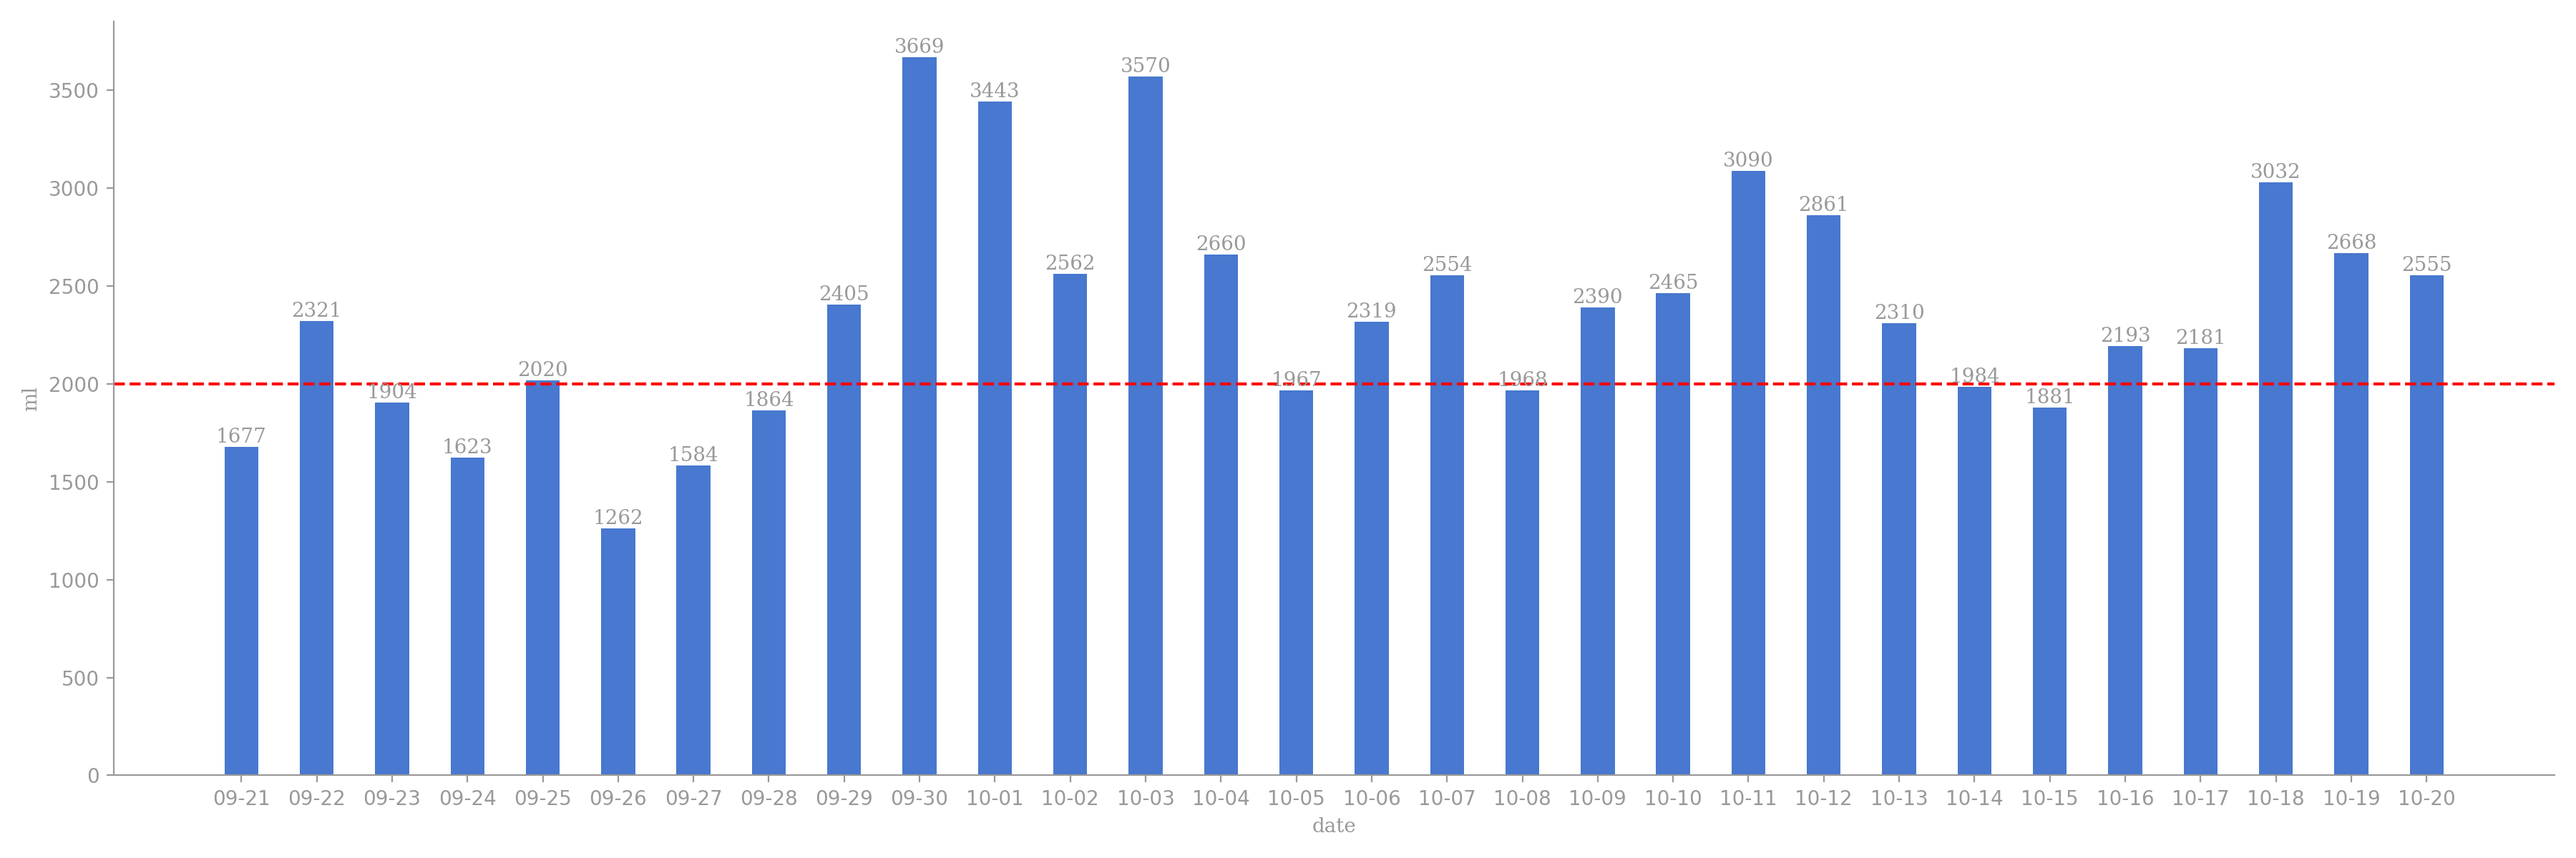
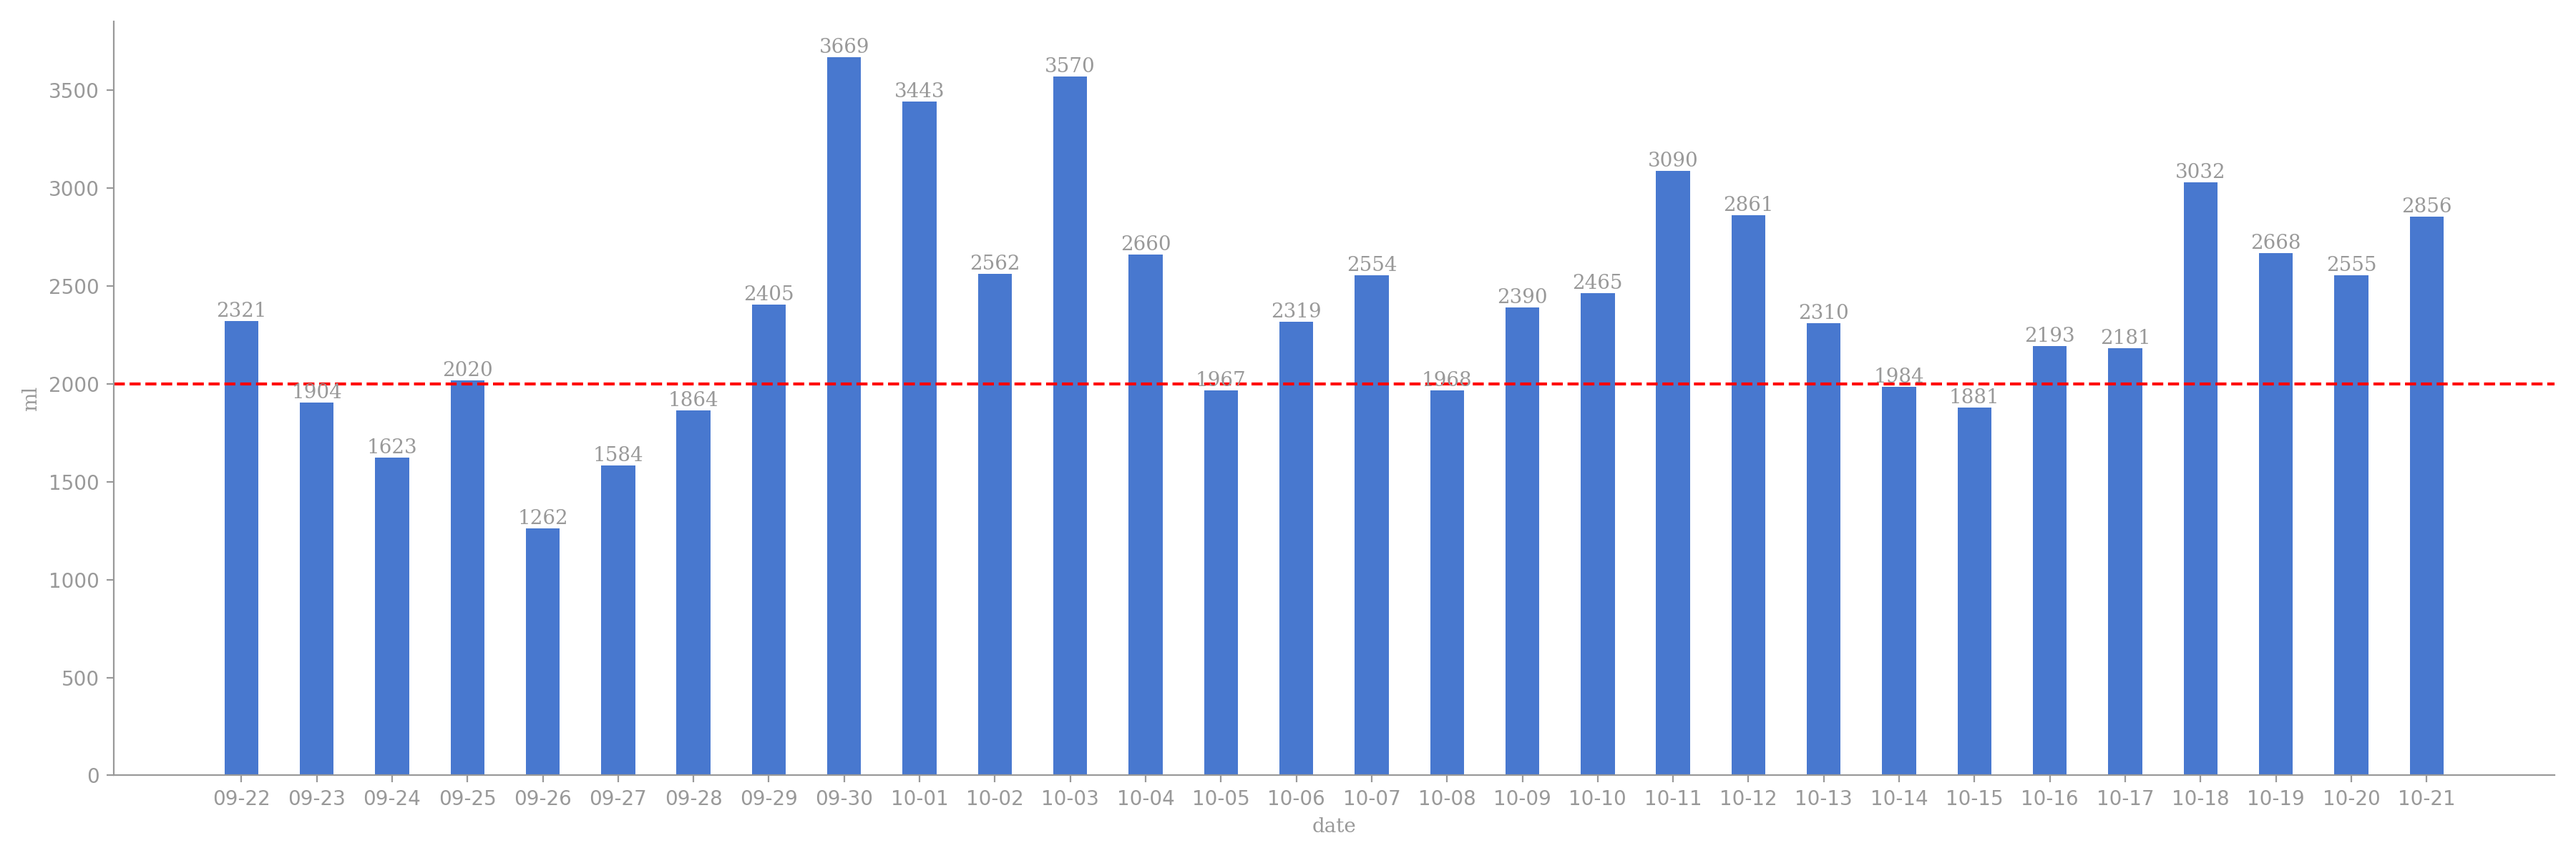
crontab auto git

Changed region(s): [[0.0622, 0.0308, 0.9644, 0.6167], [0.3422, 0.925, 0.3733, 0.9558]]

diff --git a/README.md b/README.md
@@ -1,17 +1,3 @@
-# 今日饮水数据
-
-<div align=center>
-<img src="today.png" style="zoom: 100%;" />
-
-| 今日总饮水量 | 每小时平均饮水量 |
-| :----: | :----: |
-| 2856 | 158 |
-</div>
-
-| 日期 | 00:22:31 | 01:07:46 | 07:27:08 | 08:04:04 | 08:28:19 | 08:41:43 | 08:50:15 | 09:18:09 | 09:25:32 | 09:52:17 | 10:13:39 | 10:17:23 | 10:35:57 | 11:06:17 | 11:29:45 | 12:13:01 | 13:05:16 | 13:36:08 | 13:55:32 | 14:23:00 | 15:15:36 | 15:49:21 | 16:25:55 | 17:01:45 | 17:36:29 | 18:09:49 | 18:30:47 | 18:39:00 | 20:29:02 | 20:43:29 | 21:45:50 | 21:49:05 | 21:54:17 | 21:55:38 | 22:33:02 | 22:56:47 | 23:11:16 | 23:20:36 | 23:53:03 |
-| :----: | :----: | :----: | :----: | :----: | :----: | :----: | :----: | :----: | :----: | :----: | :----: | :----: | :----: | :----: | :----: | :----: | :----: | :----: | :----: | :----: | :----: | :----: | :----: | :----: | :----: | :----: | :----: | :----: | :----: | :----: | :----: | :----: | :----: | :----: | :----: | :----: | :----: | :----: | :----: |
-| 2026-10-21 | 37 | 33 | 56 | 116 | 72 | 33 | 80 | 63 | 121 | 68 | 79 | 37 | 68 | 91 | 74 | 100 | 80 | 86 | 53 | 102 | 68 | 76 | 57 | 38 | 66 | 77 | 43 | 66 | 22 | 39 | 300 | 67 | 91 | 88 | 67 | 56 | 86 | 62 | 38 |
-
 # 近30日饮水数据
 
 <div align=center>
@@ -19,8 +5,12 @@
 
 | 总饮水量 | 日均饮水量 |
 | :----: | :----: |
-| 70982 | 2366 |
+| 72161 | 2405 |
 </div>
+
+| 日期 | all | 00:22:31 | 01:07:46 | 07:27:08 | 08:04:04 | 08:28:19 | 08:41:43 | 08:50:15 | 09:18:09 | 09:25:32 | 09:52:17 | 10:13:39 | 10:17:23 | 10:35:57 | 11:06:17 | 11:29:45 | 12:13:01 | 13:05:16 | 13:36:08 | 13:55:32 | 14:23:00 | 15:15:36 | 15:49:21 | 16:25:55 | 17:01:45 | 17:36:29 | 18:09:49 | 18:30:47 | 18:39:00 | 20:29:02 | 20:43:29 | 21:45:50 | 21:49:05 | 21:54:17 | 21:55:38 | 22:33:02 | 22:56:47 | 23:11:16 | 23:20:36 | 23:53:03 |
+| :----: | :----: | :----: | :----: | :----: | :----: | :----: | :----: | :----: | :----: | :----: | :----: | :----: | :----: | :----: | :----: | :----: | :----: | :----: | :----: | :----: | :----: | :----: | :----: | :----: | :----: | :----: | :----: | :----: | :----: | :----: | :----: | :----: | :----: | :----: | :----: | :----: | :----: | :----: | :----: | :----: |
+| 2026-10-21 | 2856 | 37 | 33 | 56 | 116 | 72 | 33 | 80 | 63 | 121 | 68 | 79 | 37 | 68 | 91 | 74 | 100 | 80 | 86 | 53 | 102 | 68 | 76 | 57 | 38 | 66 | 77 | 43 | 66 | 22 | 39 | 300 | 67 | 91 | 88 | 67 | 56 | 86 | 62 | 38 |
 
 | 日期 | all | 00:05:10 | 00:50:32 | 06:12:17 | 07:51:43 | 08:00:36 | 08:31:47 | 08:44:33 | 09:15:26 | 10:22:23 | 11:06:09 | 13:52:59 | 14:20:22 | 15:13:32 | 15:28:51 | 15:39:42 | 15:51:25 | 16:16:30 | 16:52:02 | 17:13:59 | 17:33:12 | 18:11:14 | 19:23:20 | 19:37:51 | 20:06:10 | 20:08:38 | 20:25:58 | 20:36:12 | 20:42:32 | 20:49:11 | 20:56:39 | 21:10:28 | 21:24:02 | 21:49:58 | 22:05:19 | 22:13:53 | 23:55:46 |
 | :----: | :----: | :----: | :----: | :----: | :----: | :----: | :----: | :----: | :----: | :----: | :----: | :----: | :----: | :----: | :----: | :----: | :----: | :----: | :----: | :----: | :----: | :----: | :----: | :----: | :----: | :----: | :----: | :----: | :----: | :----: | :----: | :----: | :----: | :----: | :----: | :----: | :----: |
@@ -141,8 +131,4 @@
 | 日期 | all | 01:14:20 | 01:21:20 | 07:46:15 | 07:56:43 | 08:25:14 | 08:43:05 | 08:58:13 | 10:13:27 | 10:15:17 | 11:09:15 | 13:17:23 | 13:45:23 | 15:09:57 | 15:46:43 | 16:17:58 | 17:33:44 | 17:34:37 | 18:15:13 | 18:47:05 | 19:31:08 | 21:33:05 | 23:24:51 | 23:29:41 |
 | :----: | :----: | :----: | :----: | :----: | :----: | :----: | :----: | :----: | :----: | :----: | :----: | :----: | :----: | :----: | :----: | :----: | :----: | :----: | :----: | :----: | :----: | :----: | :----: | :----: |
 | 2026-09-21 | 1677 | 86 | 63 | 50 | 37 | 102 | 68 | 51 | 48 | 33 | 82 | 86 | 20 | 66 | 37 | 66 | 38 | 69 | 88 | 76 | 56 | 300 | 86 | 69 |
-
-| 日期 | all | 01:16:53 | 07:52:55 | 08:04:55 | 08:22:13 | 10:08:06 | 10:11:27 | 10:12:24 | 11:29:52 | 12:36:25 | 13:10:58 | 13:46:41 | 15:04:08 | 15:53:19 | 17:04:16 | 17:35:04 | 18:15:47 | 18:31:56 | 18:32:50 | 18:52:21 | 19:44:27 | 20:27:23 | 23:22:25 | 23:22:56 |
-| :----: | :----: | :----: | :----: | :----: | :----: | :----: | :----: | :----: | :----: | :----: | :----: | :----: | :----: | :----: | :----: | :----: | :----: | :----: | :----: | :----: | :----: | :----: | :----: | :----: |
-| 2026-09-20 | 1996 | 60 | 76 | 102 | 77 | 65 | 33 | 102 | 168 | 89 | 47 | 39 | 69 | 86 | 70 | 71 | 55 | 87 | 80 | 206 | 10 | 15 | 300 | 89 |
 
